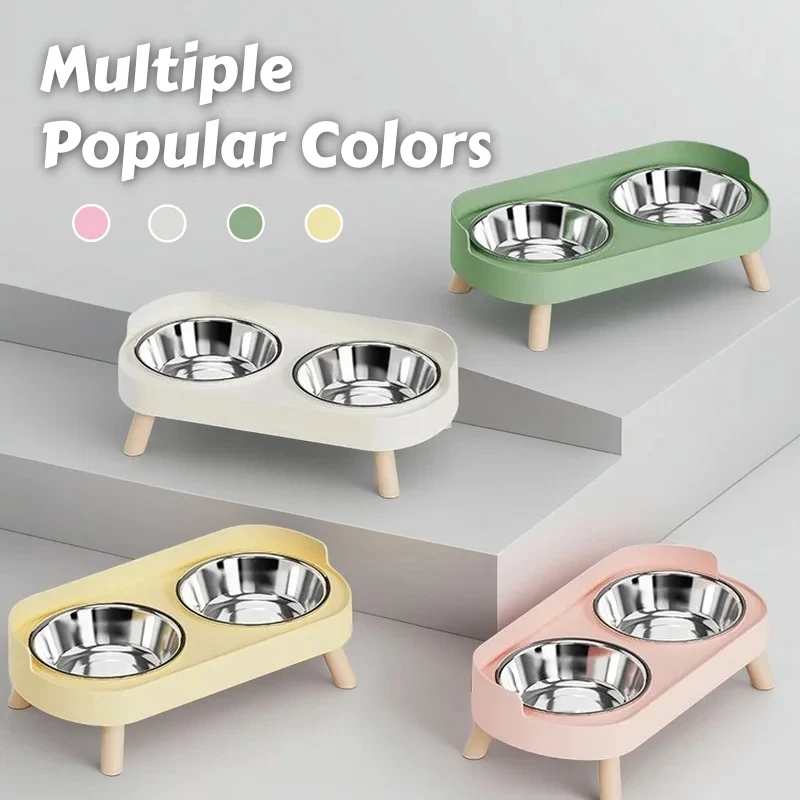
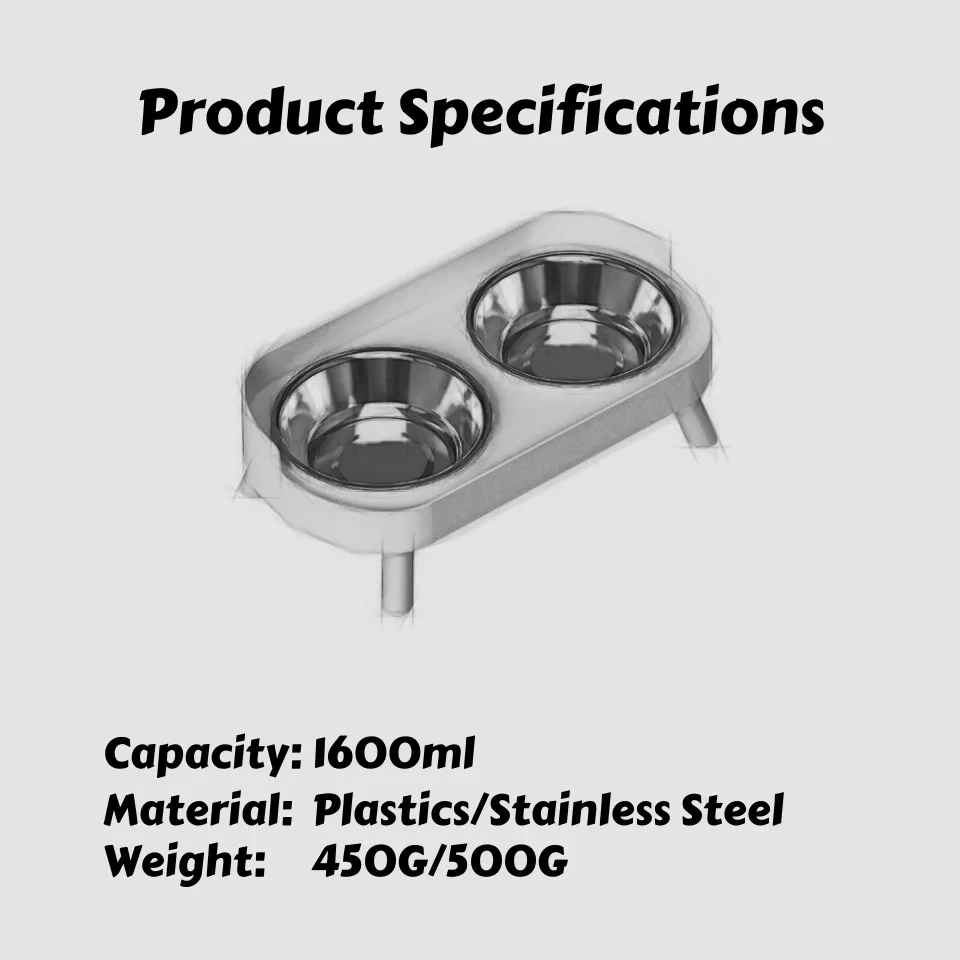
Fix elevated feeder: replace photos with correct gallery images (1-6)

diff --git a/script.js b/script.js
@@ -430,7 +430,7 @@ const products = [
   { id:'elevated-feeder', category:'accessories', section:'best-sellers',
     name:{ ru:'Подставка с двойной миской', en:'Elevated Dual Bowl Feeder', sr:'Postolje sa duplom činijom' },
     description:{ ru:'Яркая подставка с двумя мисками из нержавеющей стали. Поддержка шеи, легко моется. Для собак и кошек.', en:'Colorful elevated stand with dual stainless steel bowls. Neck support, easy to clean. For dogs and cats.', sr:'Jarko postolje sa duplim činijama od nerđajućeg čelika. Podrška za vrat, lako se čisti. Za pse i mačke.' },
-    price:30, image:'images/39.webp', images:['images/39.webp','images/40.webp','images/41.webp','images/42.webp','images/43.webp'],
+    price:30, image:'images/39.webp', images:['images/39.webp','images/40.webp','images/41.webp','images/42.webp','images/43.webp','images/44.webp'],
     rating:4.9, accType:'bowl', color:'white',
     availableColors:['white','pink','green','yellow'] },
 ];
